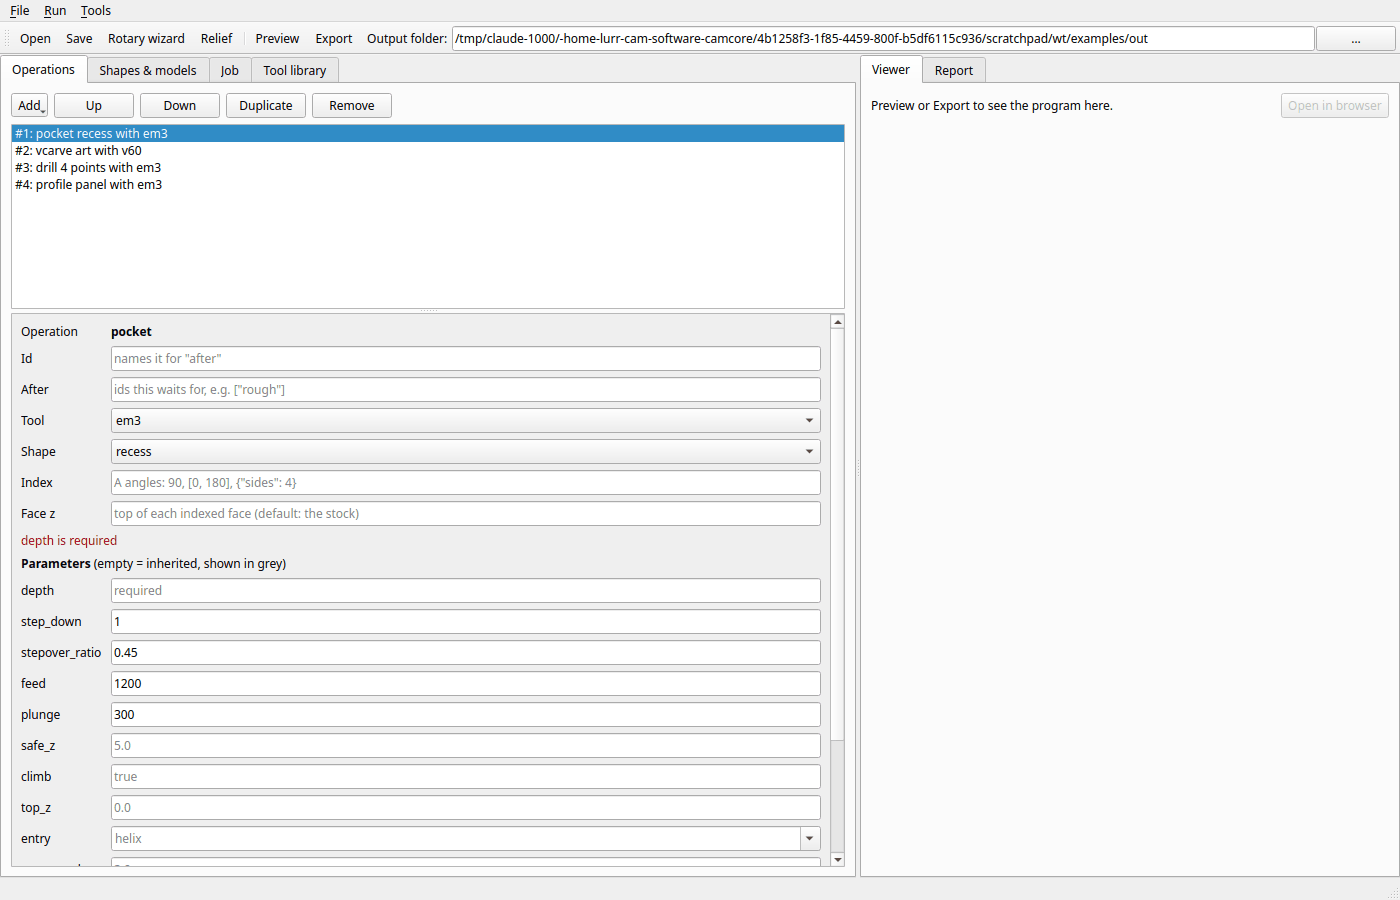
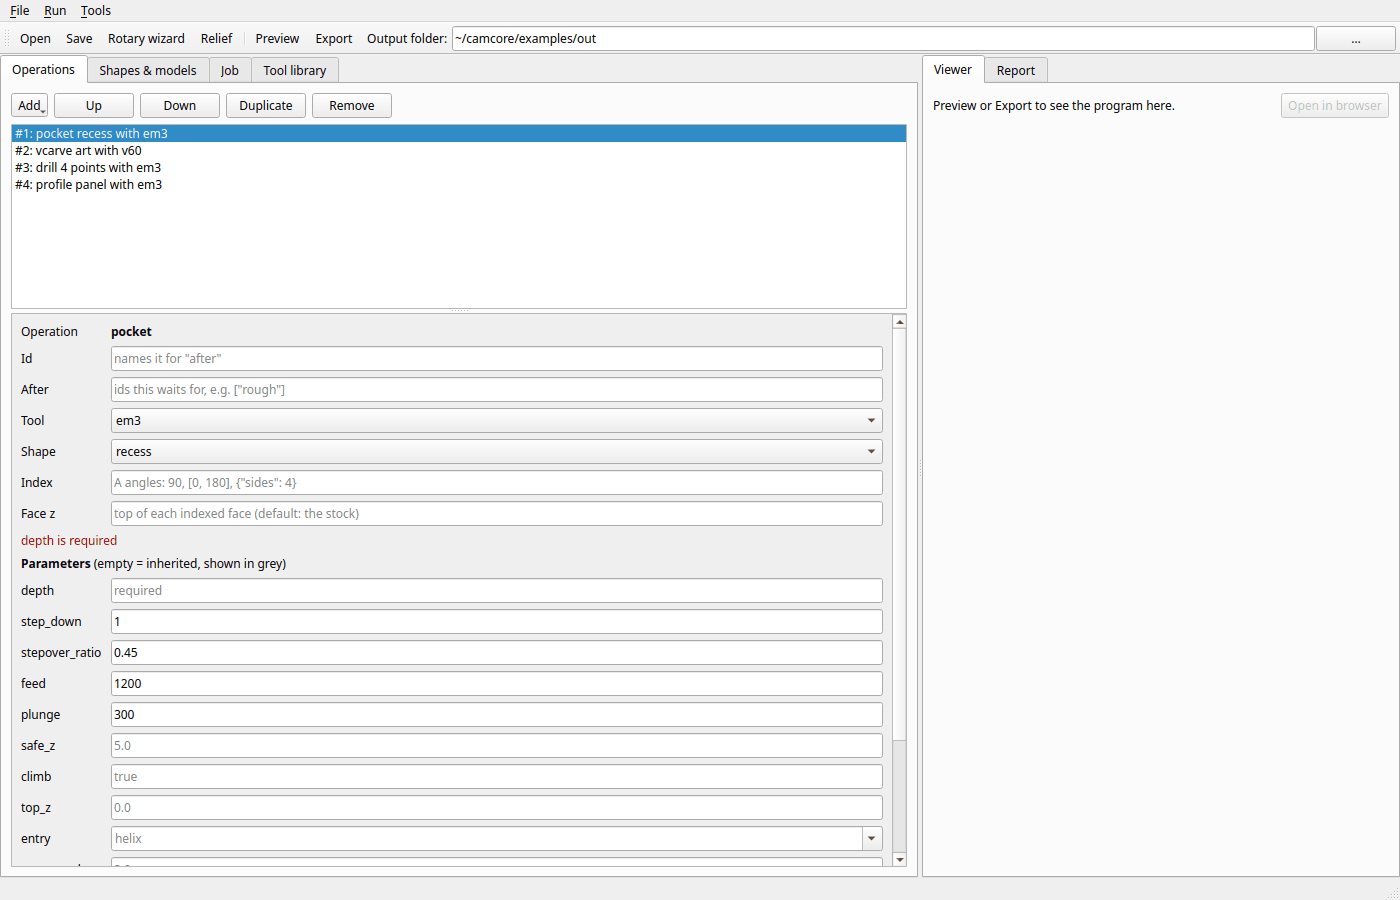
tutorials: app screenshots show no local paths
screenshots.py rewrites paths under the checkout and the home folder to
~/camcore and ~ in every text field before grabbing; the app pictures are
retaken.

Changed region(s): [[0.3071, 0.0311, 0.8293, 0.1556], [0.5836, 0.6222, 0.645, 0.9644], [0.5836, 0.3422, 0.645, 0.5911]]

diff --git a/docs/tutorials/screenshots.py b/docs/tutorials/screenshots.py
@@ -236,7 +236,7 @@ os.environ["CAMCORE_GUI_NO_WEBENGINE"] = "1"
 from pathlib import Path
 from PySide6.QtCore import QPoint, QRect
 from PySide6.QtGui import QPainter, QPixmap
-from PySide6.QtWidgets import QApplication
+from PySide6.QtWidgets import QApplication, QComboBox, QLabel, QLineEdit, QPlainTextEdit, QTextEdit
 app = QApplication([])
 from camcore.gui.main_window import MainWindow
 from camcore.gui.wizard_dialog import WizardDialog
@@ -247,6 +247,30 @@ spec = json.loads(sys.argv[1])
 def settle():
     for _ in range(30):
         app.processEvents()
+
+# paths as a reader's checkout would show them: no local user name in the pictures
+SHOWN = [(os.getcwd(), "~/camcore"), (str(Path.home()), "~")]
+
+def neutral(text):
+    for real, shown in SHOWN:
+        text = text.replace(real, shown)
+    return text
+
+def neutralise(top):
+    """Rewrite every visible path under this checkout or the home folder."""
+    for e in top.findChildren(QLineEdit):
+        e.setText(neutral(e.text()))
+    for e in top.findChildren(QLabel):
+        e.setText(neutral(e.text()))
+        e.setToolTip(neutral(e.toolTip()))
+    for e in top.findChildren(QPlainTextEdit):
+        e.setPlainText(neutral(e.toPlainText()))
+    for e in top.findChildren(QTextEdit):
+        if e.toPlainText() != neutral(e.toPlainText()):
+            e.setPlainText(neutral(e.toPlainText()))
+    for e in top.findChildren(QComboBox):
+        for i in range(e.count()):
+            e.setItemText(i, neutral(e.itemText(i)))
 
 def viewer_rect(w):
     """Where the embedded viewer would be (below the caption row of the Viewer tab)."""
@@ -265,13 +289,13 @@ for shot in spec:
             else:
                 w.setText(value); w.textEdited.emit(value)
         d.resize(1150, 640)
-        d.show(); settle()
+        d.show(); settle(); neutralise(d); settle()
         d.grab().save(shot["png"])
         continue
     if shot.get("wizard"):
         d = WizardDialog(Path(shot["wizard"]), Path(shot["out"]))
         d.resize(760, d.sizeHint().height())
-        d.show(); settle()
+        d.show(); settle(); neutralise(d); settle()
         d.grab().save(shot["png"])
         continue
     w = MainWindow(shot["job"])
@@ -291,7 +315,7 @@ for shot in spec:
     if "viewer" in shot:
         w.viewer.label.setText(shot["caption"])
         w.viewer.open_btn.setEnabled(True)
-    settle()
+    settle(); neutralise(w); settle()
     pix = w.grab()
     if "viewer" in shot:
         r = viewer_rect(w)
